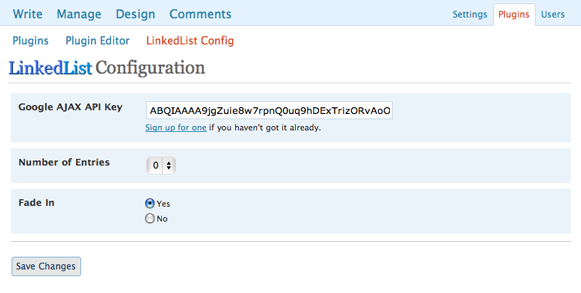
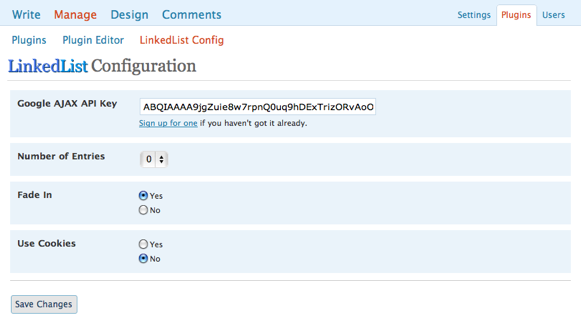
Updated to 1.0.3
git-svn-id: https://plugins.svn.wordpress.org/linkedlist/trunk@42668 b8457f37-d9ea-0310-8a92-e5e31aec5664

diff --git a/linkedlist.js b/linkedlist.js
@@ -1,6 +1,6 @@
 // =================================================================================================
 // 
-// 	LinkedList v1.1.3                                                                                                     
+// 	LinkedList v1.1.4                                                                                                     
 //  by Prateek Rungta
 //  http://prateekrungta.com
 //  
@@ -37,13 +37,14 @@ LinkedList
 	they will be displayed
 */
 
-function LinkedList (containerId, numEntries, fadeIn) {
+function LinkedList (containerId, numEntries, fadeIn, useCookies) {
 	this.containerId = containerId;
 	this.feeds = new Array();
 	this.loaded = false;
 	this.numLoaded = 0;
 	this.numEntries = numEntries;
 	this.fadeIn = (fadeIn != false) ? true : false;
+	this.useCookies = (useCookies == null || useCookies == false) ? false : true;
 	
 	//methods
 	this.add		= function(feedURL, name, isFeed) { // public method
@@ -327,6 +328,7 @@ function LinkedList (containerId, numEntries, fadeIn) {
 		http://www.quirksmode.org/js/cookies.html
 	*/
 	function createCookie (name, value, days) {
+		if (!this.useCookies) return;
 		if (days) {
 			var date = new Date();
 			date.setTime(date.getTime()+(days*24*60*60*1000));
@@ -337,6 +339,7 @@ function LinkedList (containerId, numEntries, fadeIn) {
 	}
 
 	function readCookie (name) {
+		if (!this.useCookies) return null;
 		var nameEQ = name + "=";
 		var ca = document.cookie.split(';');
 		for(var i=0;i < ca.length;i++) {

diff --git a/linkedlist.php b/linkedlist.php
@@ -3,7 +3,7 @@
 Plugin Name: LinkedList
 Plugin URI: http://prateekrungta.com/linkedlist/wp-plugin
 Description: LinkedList.wp is a simple Wordpress plugin for sorting your blogroll in the order by which the sites on the blogroll were last updated.
-Version: 1.0.2
+Version: 1.0.3
 Author: Prateek Rungta
 Author URI: http://prateekrungta.com
 */
@@ -30,11 +30,13 @@ $linkedlist_options = array();
 $linkedlist_options['name'] = array(
 			'key' 		=> 'google_ajax_feed_api_key', 	// the WP option under which the user's API key is stored
 			'entries' 	=> 'linkedlist_entries', 		// for numberOfEntries
-			'fade' 		=> 'linkedlist_fade');			// for fadeEntries
+			'fade' 		=> 'linkedlist_fade',			// for fadeEntries
+			'cookies'	=> 'linkedlist_cookies');		// for useCookies
 $linkedlist_options['value'] = array(
 			'key' 		=> '',							// Paste your Google API key here to hardcode it.
 			'entries' 	=> '',
-			'fade' 		=> '');
+			'fade' 		=> '',
+			'cookies'	=> '');
 $links = array();										// to store all the blogroll links
 
 /*
@@ -112,18 +114,22 @@ function linkedlist_menu() {
 	$current['key'] = get_option($linkedlist_options['name']['key']);
 	$current['entries'] = get_option($linkedlist_options['name']['entries']);
 	$current['fade'] = get_option($linkedlist_options['name']['fade']);
+	$current['cookies'] = get_option($linkedlist_options['name']['cookies']);
 
 	$current['entries'] = ($current['entries'] != null) ? $current['entries'] : 0;
 	$current['fade'] = ($current['fade'] != null) ? $current['fade'] : 'yes';
+	$current['cookies'] = ($current['cookies'] != null) ? $current['cookies'] : 'no';
 
 	if (isset($_POST[$hiddenField]) && $_POST[$hiddenField] == '1') {
 		$current['key'] = $_POST[$linkedlist_options['name']['key']];
 		$current['entries'] = $_POST[$linkedlist_options['name']['entries']];
 		$current['fade'] = $_POST[$linkedlist_options['name']['fade']];
+		$current['cookies'] = $_POST[$linkedlist_options['name']['cookies']];
 		
-		update_option ($linkedlist_options['name']['key'], $current['key']); // creates an entry if it doesn't exist and updates its value
+		update_option ($linkedlist_options['name']['key'], $current['key']); // creates an entry if it doesn't exist and updates it
 		update_option ($linkedlist_options['name']['entries'], $current['entries']);
 		update_option ($linkedlist_options['name']['fade'], $current['fade']);
+		update_option ($linkedlist_options['name']['cookies'], $current['cookies']);
 ?>		
 	<div id="linkedlist_config_status" class="updated fade">
 		<p>LinkedList preferences updated!</p>
@@ -167,6 +173,16 @@ function linkedlist_menu() {
 	Yes</label><br />
 	<label for="<?php echo $linkedlist_options['name']['fade']; ?>">
 	<input type="radio" name="<?php echo $linkedlist_options['name']['fade']; ?>" value="no"<?php if($current['fade'] == 'no') { echo ' checked="checked"'; } ?> />
+	No</label>
+	</td>
+	</tr>
+	<tr valign="top">
+	<th scope="row">Use Cookies</th>
+	<td><label for="<?php echo $linkedlist_options['name']['cookies']; ?>">
+	<input type="radio" name="<?php echo $linkedlist_options['name']['cookies']; ?>" value="yes"<?php if($current['cookies'] == 'yes') { echo ' checked="checked"'; } ?> />
+	Yes</label><br />
+	<label for="<?php echo $linkedlist_options['name']['cookies']; ?>">
+	<input type="radio" name="<?php echo $linkedlist_options['name']['cookies']; ?>" value="no"<?php if($current['cookies'] == 'no') { echo ' checked="checked"'; } ?> />
 	No</label>
 	</td>
 	</tr>
@@ -225,6 +241,7 @@ function linkedlist_init() {
 	// apply defaults if not found
 	if ($linkedlist_options['value']['entries'] == null) { $linkedlist_options['value']['entries'] = 0; }
 	$linkedlist_options['value']['fade'] = ($linkedlist_options['value']['fade'] == 'no') ? 'false' : 'true';
+	$linkedlist_options['value']['cookies'] = ($linkedlist_options['value']['cookies'] == 'no') ? 'false' : 'true';
 	
 	
 	if (function_exists('wp_register_sidebar_widget') && function_exists('wp_register_widget_control')) {
@@ -303,12 +320,13 @@ function linkedlist_addSource() {
 	<script type="text/javascript" charset="utf-8">
 		google.load("feeds", "1");
 		
-		var links = new LinkedList(\'linkedlist\', '.$linkedlist_options['value']['entries'].', '.$linkedlist_options['value']['fade'].');'."\n";
+		var links = new LinkedList(\'linkedlist\', '.$linkedlist_options['value']['entries'].', '.$linkedlist_options['value']['fade'].', '.$linkedlist_options['value']['cookies'].');'."\n";
 
 	foreach ($links as $link) {
 		if ($link->link_visible != 'Y') { continue; }
 		
 		$link->link_name = wptexturize($link->link_name);
+		$link->link_name = str_replace("'", "&#039;", $link->link_name);
 		
 		if ($link->link_rss != '') {
 			echo "\t\tlinks.add('$link->link_rss', '$link->link_name');\n";
